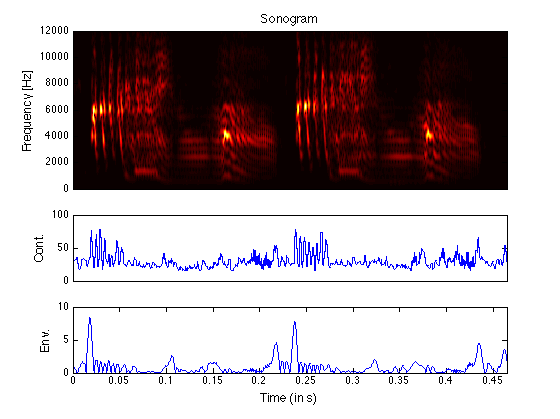
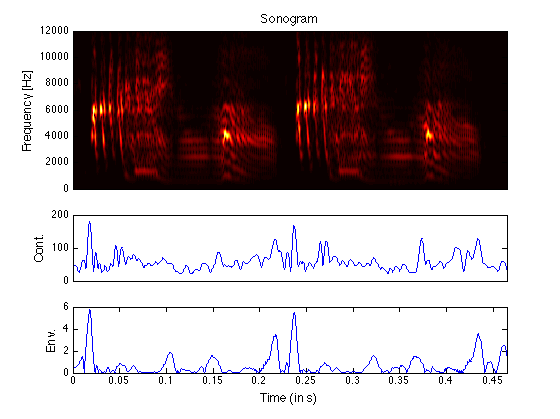
Added power weighting options

diff --git a/acontrast_contour.m b/acontrast_contour.m
@@ -41,17 +41,18 @@ end
 
 %% PARAMETERS (PASSED AS PARAMETER/VALUE PAIRS) 
 
-use_band=[3e3 10e3]; % band to compute features in
-pow_weight=0; % enables power weighting
+use_band=[500 12e3]; % band to compute features in
+pow_weight=1; % enables power weighting
 pow_scale='log'; % power weighting (log or linear)
 len = 23.2; % window length (in ms)
 overlap = 22.8; % window overlap (in ms)
 angle_list = (pi/8:pi/8:pi) + pi/8; % compute contours in all these angle_list - recommended not to change.
-timescale_list = 0.5:0.2:2.2; % time scales in milliseconds for this analysis
+timescale_list = [1 1.45 2.1 3]; % time scales in milliseconds for this analysis
 clength_threshold = 95; % keep only contours longer than this length percentile 98 or 99 recommended.
 norm_amp=1; % normalize amplitude to [-1,1]
 filtering=300; % high pass filtering of mic signal
 regression_timescale=.005; % in seconds, computes smooth derivative through windowed regression
+smoothing=100; % smooth the final score
 
 %% END USER PARAMETERS
 
@@ -85,6 +86,8 @@ for i=1:2:nparams
 			pow_scale=varargin{i+1};
 		case 'regression_timescale'
 			regression_timescale=varargin{i+1};
+		case 'smoothing'
+			smoothing=varargin{i+1};
 	end
 end
 
@@ -101,39 +104,39 @@ if isempty(maxf), maxf=length(F); end
 
 nangles=length(angle_list);
 ntimescales=length(timescale_list);
-
 disp('Tiling feature matrix...');
 
 RAW_FEATURES=zeros(nangles*ntimescales,length(T));
 
-weights=SONOGRAMS;
-
 % get weighting from sonograms
-
-if pow_weight & strcmp(lower(pow_scale(1:3)),'log')	
-	for i=1:length(weights)
-		weights{i}=log(abs(weights{i}));
-	end
-elseif pow_weight & strcmp(lower(pow_scale(1:3)),'lin')
-	for i=1:length(weights)
-		weights{i}=abs(weights);
-	end
-else
-	for i=1:length(weights)
-		weights{i}=ones(size(weights{i}));
-	end
-end
 
 counter=1;
 for i=1:ntimescales
 	for j=1:nangles
-		RAW_FEATURES(counter,:)=full(sum(auditory_contour{i}{j}(minf:maxf,:).*weights{i}(minf:maxf,:)));
+
+		if pow_weight & strcmp(lower(pow_scale(1:3)),'log')
+			tmp=auditory_contour(i,j).pwr_img;
+			tmp(tmp~=0)=log(tmp(tmp~=0));
+			RAW_FEATURES(counter,:)=full(sum(tmp));
+		elseif pow_weight & strcmp(lower(pow_scale(1:3)),'lin')
+			RAW_FEATURES(counter,:)=full(sum(auditory_contour(i,j).pwr_img));
+		else
+			RAW_FEATURES(counter,:)=full(sum(auditory_contour(i,j).bin_img));
+		end
+
 		FEATURE_NAME{counter}=sprintf('Timescale %5.3f (ms) & angle %5.3f (rads)',timescale_list(i),angle_list(j));
 		counter=counter+1;
 	end
 end
 
+
 score_fs=1./(T(2)-T(1)); % get the frame rate of the feature vector
+
+if ~isempty(smoothing)
+	[b,a]=ellip(2,.2,40,[smoothing]/(score_fs/2));
+	RAW_FEATURES=filtfilt(b,a,RAW_FEATURES')';
+end
+
 tmp=acontrast_deltacoef(RAW_FEATURES,round(score_fs.*regression_timescale)); % yoonseob used 10 msec regression window	
 
 % interpolate back to original signal space
@@ -144,7 +147,7 @@ disp('Interpolating features...');
 
 FEATURE_MAT=zeros(nangles*ntimescales,length(original_time));
 for i=1:size(RAW_FEATURES,1)
-	FEATURE_MAT(i,:)=interp1(T,tmp(i,:),original_time,'nearest');
+	FEATURE_MAT(i,:)=interp1(T,tmp(i,:),original_time,'linear');
 end
 
 

diff --git a/acontrast_demo.m b/acontrast_demo.m
@@ -5,15 +5,17 @@ font_size=12; % self-explanatory
 disp_band=[0 12e3]; % spectrogram band to display
 clipping=0; % clipping for spectrogram
 imscale=15; % image scaling parameter
-regression_timescale=.005; % sets the smoothness of the derivative calculation
-
+regression_timescale=.0075; % sets the smoothness of the derivative calculation
+pow_scale='log'; % use log power weighting (try 'lin' for linear)
+pow_weight=1; % enable power weighting
 % Load the sample sound
 
 [signal, fs] = wavread('finchdoublet.wav');
 signal_t=[1:length(signal)]/fs;
 
 tic
-[feature_matrix,raw_features,feature_names,consensus,f,t]=acontrast_contour(signal,fs,'regression_timescale',regression_timescale);
+[feature_matrix,raw_features,feature_names,consensus,f,t]=acontrast_contour(signal,fs,...
+	'regression_timescale',regression_timescale,'pow_weight',pow_weight,'pow_scale',pow_scale);
 [envelope_score,envelope,sonogram,sono_f,sono_t]=acontrast_envelope(signal,fs,'regression_timescale',regression_timescale);
 contour_score=sum(abs(feature_matrix));
 toc
